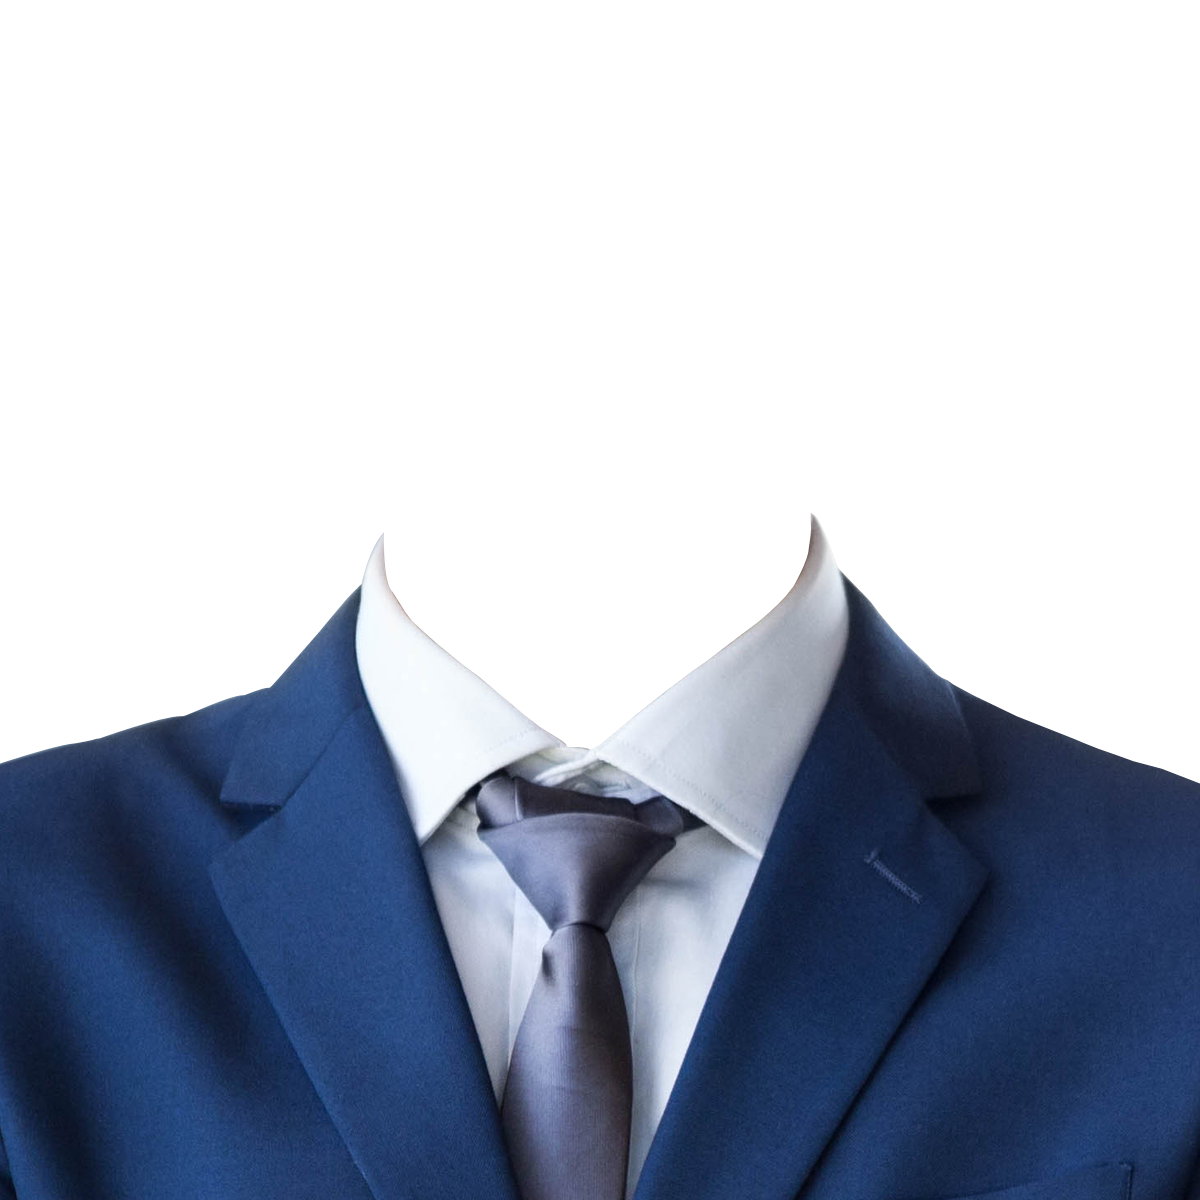
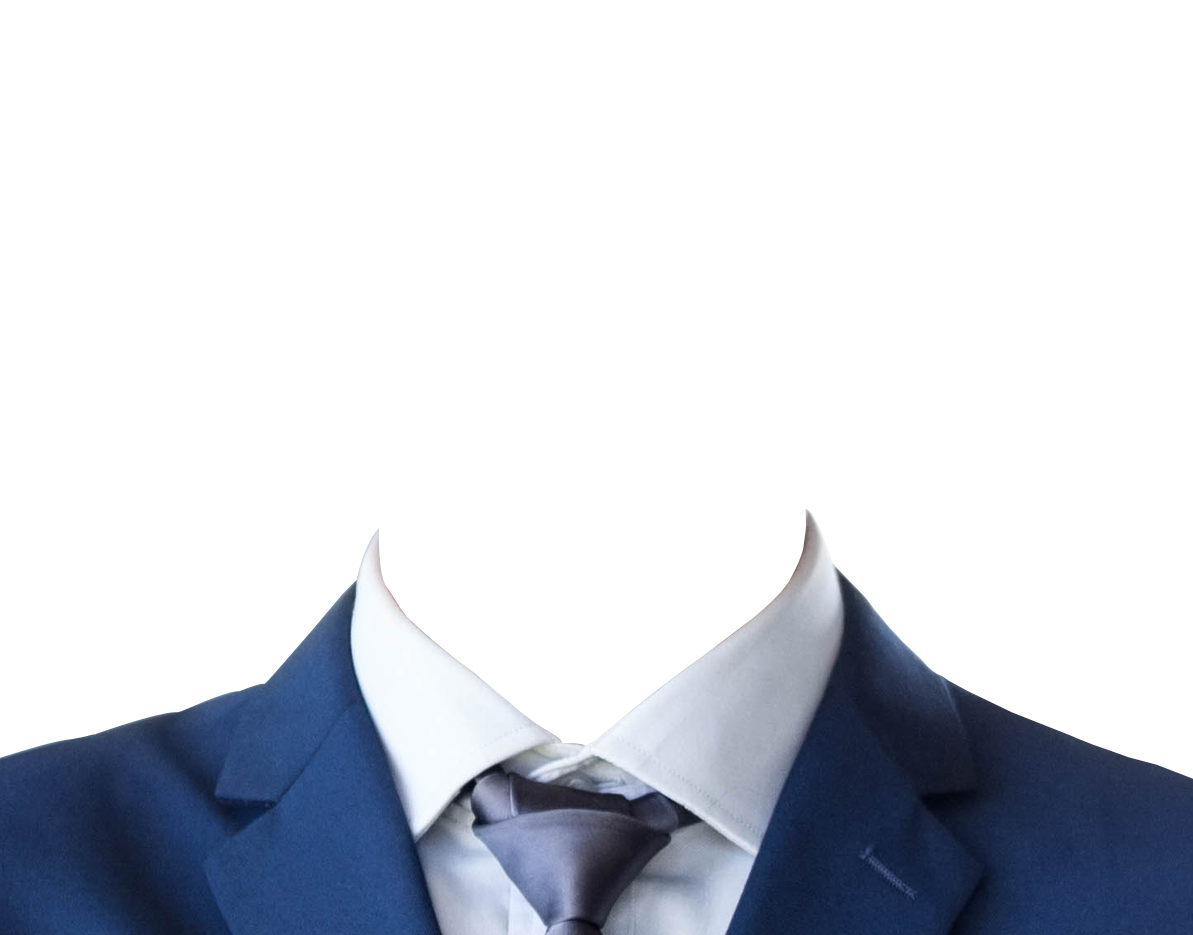
feat: test config values

diff --git a/backend/src/main/java/IS442/G1T3/IDPhotoGenerator/service/impl/ClothesReplacementServiceImpl.java b/backend/src/main/java/IS442/G1T3/IDPhotoGenerator/service/impl/ClothesReplacementServiceImpl.java
@@ -172,18 +172,25 @@ public class ClothesReplacementServiceImpl implements ClothesReplacementService 
         // Calculate neck position more accurately based on shoulder points
         // Assuming the first two points are the top shoulders
         int neckTop = (int)Math.min(shoulderPoints[0].y, shoulderPoints[1].y);
-        neckTop -= (int)(foreground.rows() * 0.52);
+        
+        // Adjust neck position more conservatively for cropped images
+        double neckOffsetFactor = 0.3; // Reduced from 0.52 to better handle cropped images
+        neckTop -= (int)(foreground.rows() * neckOffsetFactor);
 
         // Calculate the width between shoulders for better scaling
         double shoulderWidth = Math.abs(shoulderPoints[0].x - shoulderPoints[1].x);
-
-        int roiX = 0;
-        int roiY = neckTop; // Start at neck position
+        
+        // Calculate center point for positioning (important for cropped images)
+        int centerX = (int)(shoulderPoints[0].x + shoulderPoints[1].x) / 2;
+        
+        // Adjust ROI to be centered horizontally instead of starting from left edge
         int roiWidth = foreground.cols();
         int roiHeight = foreground.rows() - neckTop;
+        int roiX = Math.max(0, centerX - (roiWidth / 2));
+        int roiY = neckTop;
 
-        // Ensure ROI is within bounds
-//        roiX = Math.max(0, roiX);
+        // Ensure ROI is within bounds - uncommented to properly handle bounds
+        roiX = Math.max(0, roiX);
         roiY = Math.max(0, roiY);
         if (roiX + roiWidth > foreground.cols()) {
             roiWidth = foreground.cols() - roiX;
@@ -193,32 +200,30 @@ public class ClothesReplacementServiceImpl implements ClothesReplacementService 
         }
 
         // Calculate better scale factor based on shoulder width
-        double widthScaleFactor = shoulderWidth / (clothes.cols() * 0.8); // Adjust 0.8 as needed
+        double widthScaleFactor = shoulderWidth / (clothes.cols() * 0.6); // Adjusted from 0.8 to 0.6
         double heightScaleFactor = roiHeight / (double) clothes.rows();
 
         // Use the larger scale factor to ensure proper fit
         double scaleFactor = Math.max(widthScaleFactor, heightScaleFactor);
 
         // Apply a multiplier to make the clothes fit better
-        scaleFactor *= 1.05; // Adjust this value based on results
+        scaleFactor *= 1.5; // Increased from 1.3
 
         int newOverlayWidth = (int) Math.round(clothes.cols() * scaleFactor);
         int newOverlayHeight = (int) Math.round(clothes.rows() * scaleFactor);
 
-        Mat resizedOverlay = new Mat(); // rounded corners updates from here
+        Mat resizedOverlay = new Mat();
         Imgproc.resize(clothes, resizedOverlay, new Size(newOverlayWidth, newOverlayHeight));
-
-
 
         Mat overlayCanvas = Mat.zeros(roiHeight, roiWidth, clothes.type());
 
-        // Center horizontally and position vertically with a small offset
+        // Improve centering by considering the actual center of the image rather than just the ROI
         int offsetX = (roiWidth - newOverlayWidth) / 2;
         int offsetY = 0; // You might want to adjust this based on testing
 
         // Ensure offsets don't go out of bounds
         offsetX = Math.max(0, offsetX);
-//        offsetY = Math.max(0, offsetY);
+        offsetY = Math.max(0, offsetY);
 
         // Adjust ROI if needed to ensure it stays within bounds
         int endY = Math.min(offsetY + newOverlayHeight, overlayCanvas.rows());
